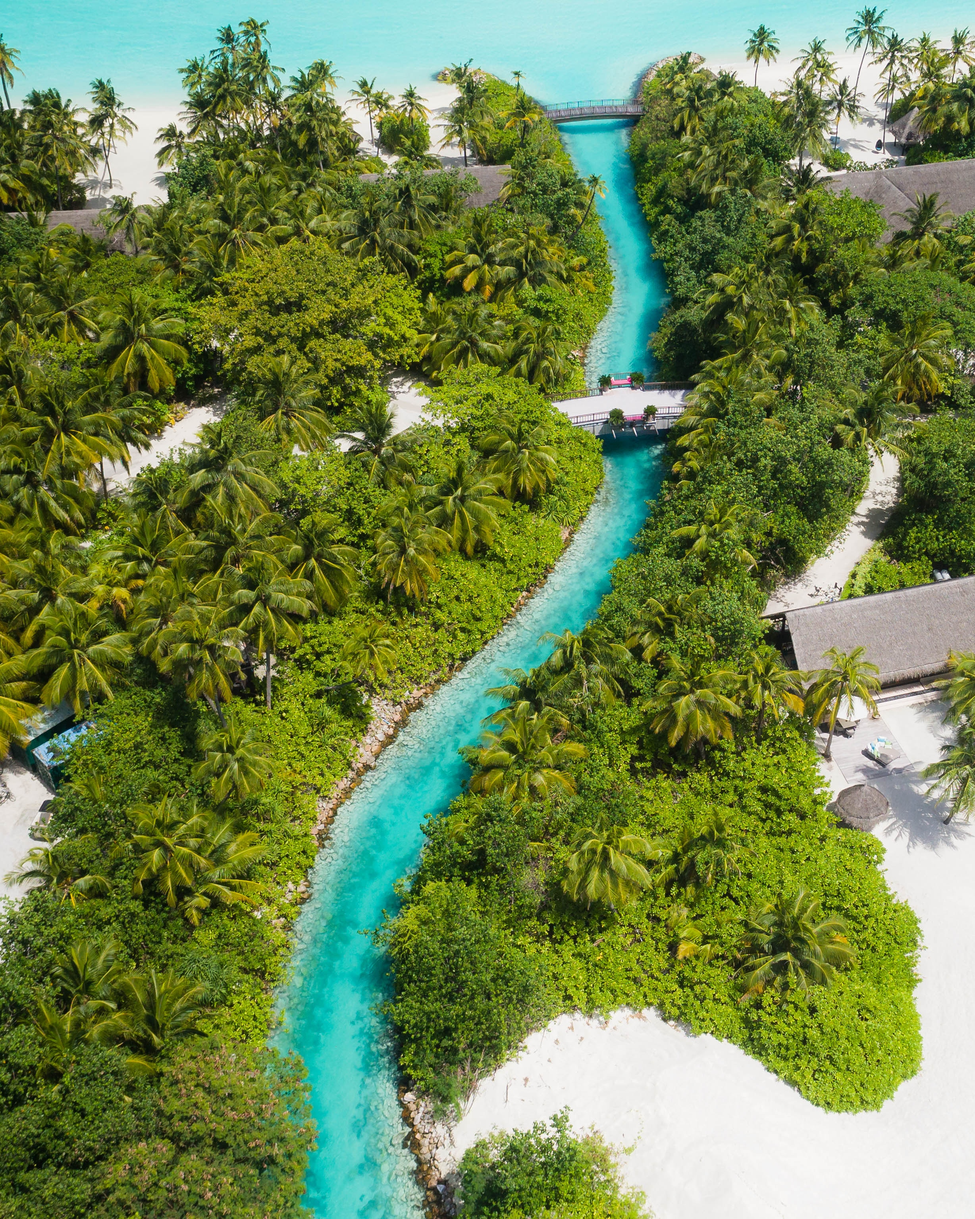
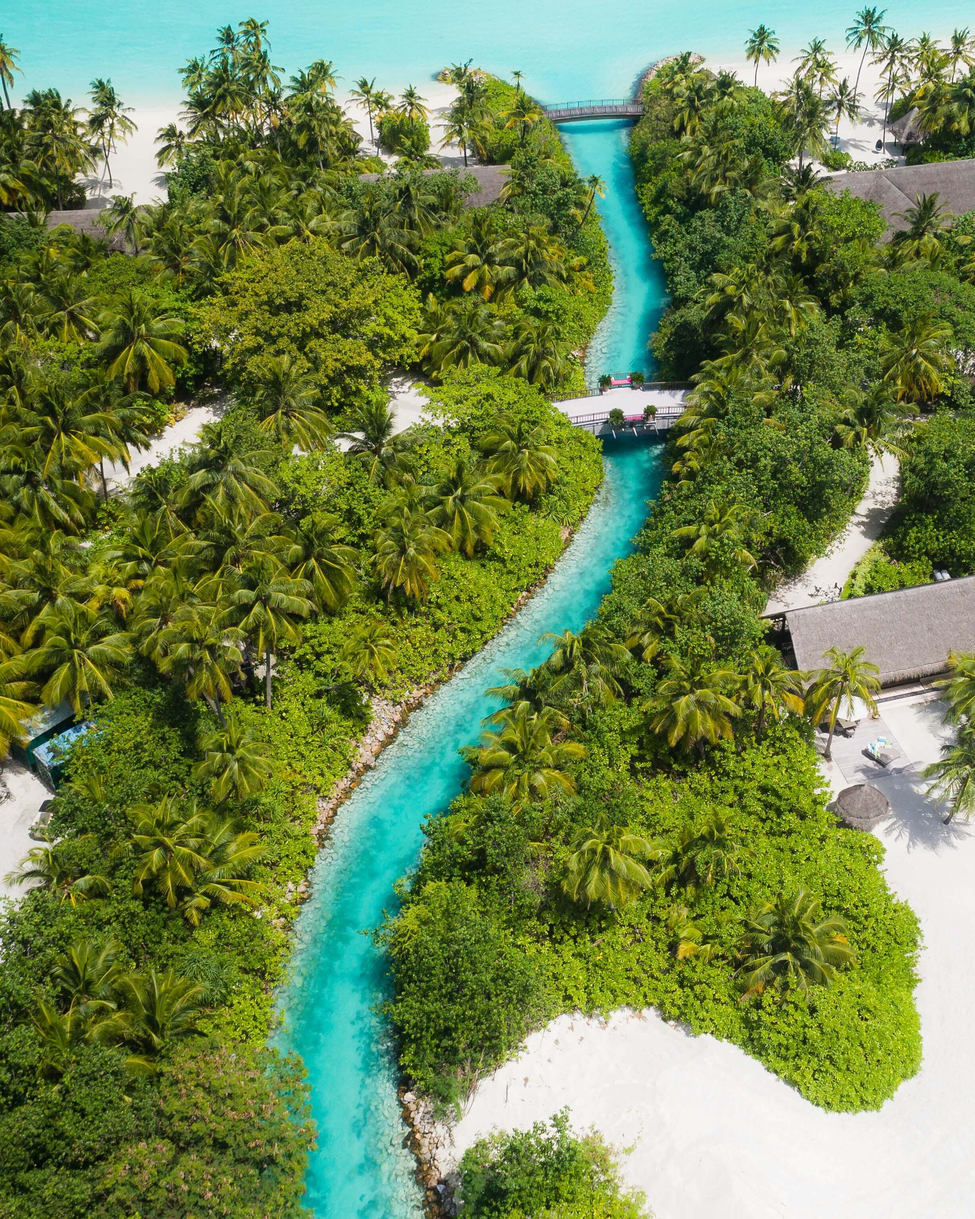
compressed images, changed button name on services page

diff --git a/src/app/servicetype/servicetype.component.html b/src/app/servicetype/servicetype.component.html
@@ -16,7 +16,7 @@
            <p class="text-left">
                 {{type.details}}
                 <br>
-                <button type="submit" class="btn btn-primary mt-2 font-weight-bold align-self-end bg-warning">Explore More</button>
+                <button type="submit" class="btn btn-primary mt-2 font-weight-bold align-self-end bg-warning" routerLink="/contact" routerLinkActive="active">Contact Us</button>
 
            </p> 
 
